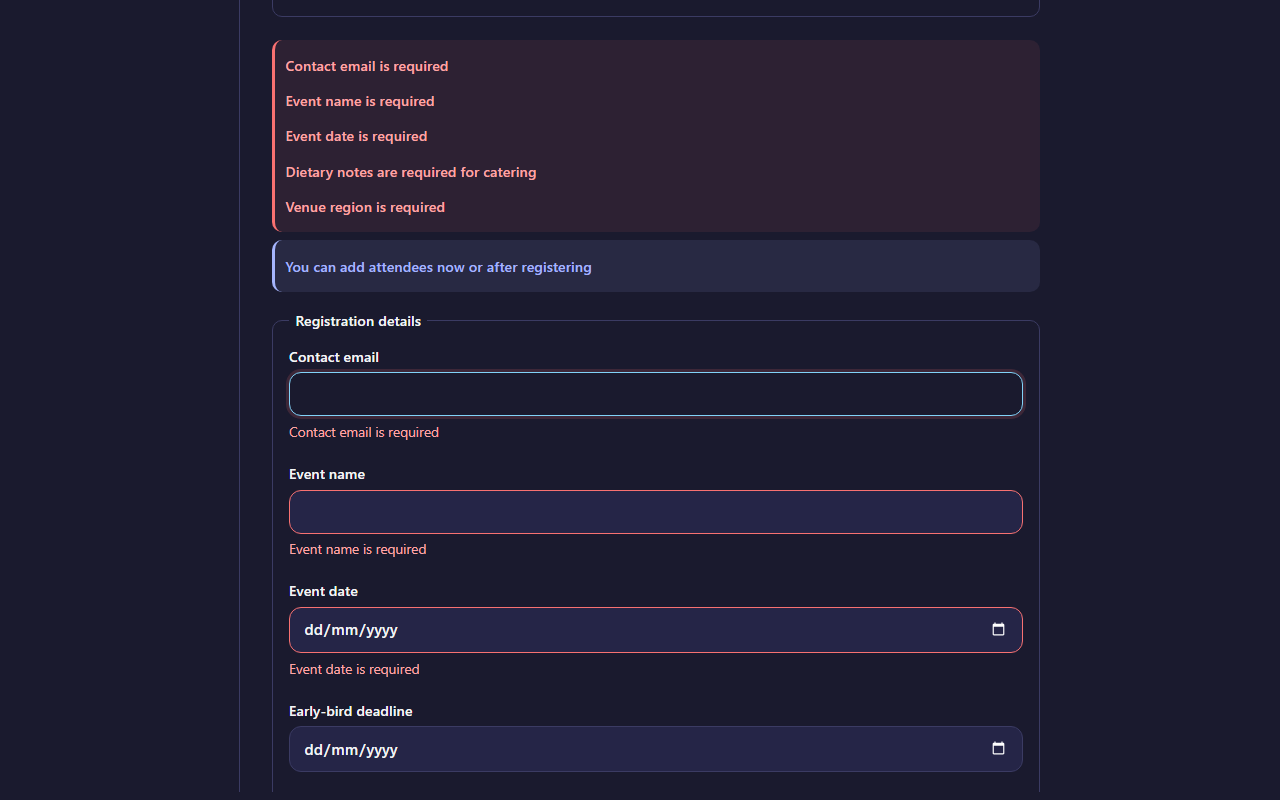
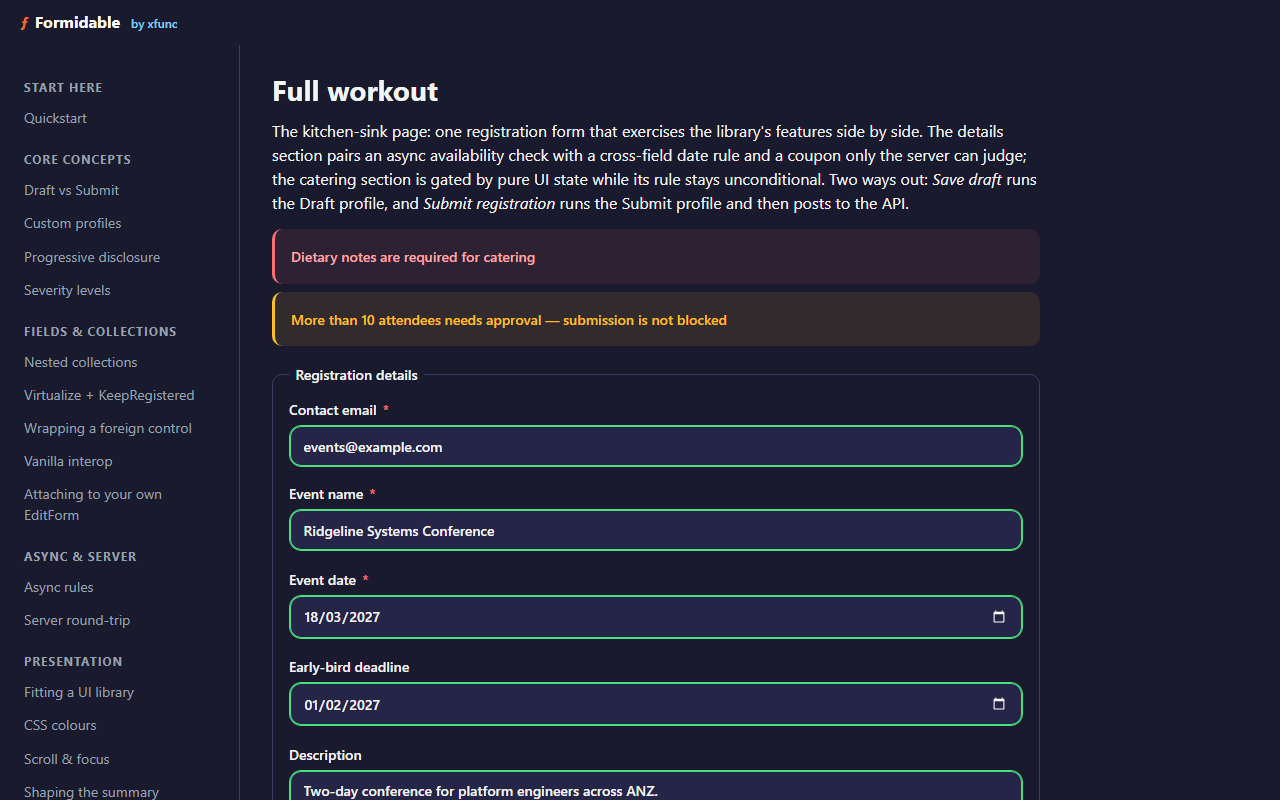
docs: show a mixed verdict in the hero captures
An all-red form sold the summary and nothing else. The hero now stages
five valid fields, a warning that blocks nothing, and one error, framed
from the top so the brand and the page header sit in the shot. The
contact address is the reserved documentation domain.

diff --git a/tests/Formidable.Sample.E2E/DocsCapture.cs b/tests/Formidable.Sample.E2E/DocsCapture.cs
@@ -43,33 +43,37 @@ public sealed class DocsCapture(SampleAppFixture app)
     // contexts on the fixture's shared browser instead of adding servers of its own.
     private const string WorkoutUrl = "http://localhost:5181/workout";
 
-    // How far below the top of the viewport the summary lands for the hero shots: enough to keep
-    // it clear of the very edge, small enough that the field messages below it fill the rest of
-    // the 800px frame — the whole point of the shot. A double, not a float: EvaluateAsync's
-    // argument serializer does not round-trip System.Single, so a float argument silently reaches
-    // the page as undefined and turns the arithmetic below into NaN.
-    private const double SummaryTopMargin = 40d;
+    // Eleven rows is the cheapest way past the Attendees collection's Warning-severity rule
+    // (EventRegistrationValidator.ConfigureDraftRules: more than 10 is a warning, never a
+    // block), and each needs a Name — the per-row presence rule sits in the submit bucket, so a
+    // blank row would add its own error and spoil the one-error state the hero wants. Real
+    // first-and-last names rather than placeholders, since this shot is what a visitor sees first.
+    private static readonly string[] HeroAttendeeNames =
+    [
+        "Maya Chen", "Liam O'Connor", "Priya Natarajan", "Oliver Bennett", "Sofia Rossi",
+        "Noah Kim", "Ava Thompson", "Ethan Walsh", "Grace Nguyen", "Lucas Ferreira", "Isla Campbell",
+    ];
 
     [DocsCaptureFact]
-    public async Task Hero_light_captures_the_empty_first_submit()
+    public async Task Hero_light_captures_a_mixed_valid_and_warning_state()
     {
         var path = Path.Combine(AssetsDirectory(), "hero-light.png");
         var page = await OpenWorkoutAsync(ColorScheme.Light);
 
-        await SubmitEmptyRegistrationAsync(page);
-        await ScrollSummaryNearTopAsync(page);
+        await StageMixedValidationAsync(page);
+        await FrameForHeroAsync(page);
 
         await page.ScreenshotAsync(new PageScreenshotOptions { Path = path });
     }
 
     [DocsCaptureFact]
-    public async Task Hero_dark_captures_the_empty_first_submit()
+    public async Task Hero_dark_captures_a_mixed_valid_and_warning_state()
     {
         var path = Path.Combine(AssetsDirectory(), "hero-dark.png");
         var page = await OpenWorkoutAsync(ColorScheme.Dark);
 
-        await SubmitEmptyRegistrationAsync(page);
-        await ScrollSummaryNearTopAsync(page);
+        await StageMixedValidationAsync(page);
+        await FrameForHeroAsync(page);
 
         await page.ScreenshotAsync(new PageScreenshotOptions { Path = path });
     }
@@ -122,20 +126,55 @@ public sealed class DocsCapture(SampleAppFixture app)
         await Expect(Summary(page)).ToBeVisibleAsync(new() { Timeout = AsyncTimeoutMs });
     }
 
-    // Scrolls the summary to just below the top of the viewport so the hero shots frame the
-    // form's error states rather than the page chrome above them. The margin is a double, not a
-    // float: EvaluateAsync's argument serializer does not round-trip System.Single — a float
-    // argument silently reaches the page as undefined, so "rect.top - margin" becomes NaN and
-    // window.scrollBy(0, NaN) is a no-op the caller never learns about.
-    private static Task ScrollSummaryNearTopAsync(IPage page) =>
-        page.EvaluateAsync(
-            """
-            margin => {
-                const rect = document.querySelector('.formidable-summary').getBoundingClientRect();
-                window.scrollBy(0, rect.top - margin);
-            }
-            """,
-            SummaryTopMargin);
+    // Stages the workout page the hero shots want: a realistic conference registration with
+    // every required field answered but one, an eleven-attendee list past the Warning-severity
+    // threshold, and Dietary notes left blank — its rule is unconditional (ConfigureDraftRules),
+    // so it is the cheapest single field that keeps one error and the summary's error band alive
+    // once everything else clears. Kept separate from SubmitEmptyRegistrationAsync, which
+    // Social_preview still uses unchanged for its own all-red empty-submit crop: the two shots
+    // want different states, so they get different staging rather than one helper branching on
+    // its caller.
+    private static async Task StageMixedValidationAsync(IPage page)
+    {
+        await Field(page, "contactemail").FillAsync("events@example.com");
+        await Field(page, "eventname").FillAsync("Ridgeline Systems Conference");
+        await Field(page, "eventdate").FillAsync("2027-03-18");
+        await Field(page, "earlybirddeadline").FillAsync("2027-02-01");
+        await Field(page, "description").FillAsync("Two-day conference for platform engineers across ANZ.");
+        await Field(page, "couponcode").FillAsync("EARLYBIRD");
+        await Field(page, "cateringheadcount").FillAsync("120");
+        await Field(page, "venueregion").FillAsync("Adelaide, South Australia");
+        await TabAsync(page);
+
+        var addAttendee = page.GetByRole(AriaRole.Button, new() { Name = "Add attendee", Exact = true });
+        for (var i = 0; i < HeroAttendeeNames.Length; i++)
+        {
+            await addAttendee.ClickAsync();
+            var row = page.Locator(".member-list li").Nth(i);
+            await Field(row, "name").FillAsync(HeroAttendeeNames[i]);
+        }
+
+        await page.GetByRole(AriaRole.Button, new() { Name = "Submit registration", Exact = true }).ClickAsync();
+
+        // Both waits double as the staging's own proof: the one field left blank is what the
+        // error band names, and the eleven-row list is what the warning band names. Waiting on
+        // them (rather than a fixed delay) also absorbs the contact email's 300ms availability
+        // check and the debounced live passes every fill above started.
+        await Expect(SummaryEntry(page, "Dietary notes are required for catering"))
+            .ToBeVisibleAsync(new() { Timeout = AsyncTimeoutMs });
+        await Expect(SummaryEntry(page, "More than 10 attendees needs approval — submission is not blocked"))
+            .ToBeVisibleAsync(new() { Timeout = AsyncTimeoutMs });
+    }
+
+    // Frames the hero shots on the nav's brand block and the page header rather than on the page
+    // chrome the teaching panel would otherwise push below the fold: same technique
+    // Social_preview uses (hide .teaching, scroll to the top), applied here through its own copy
+    // so the two capture shapes stay free to diverge without either editing the other's helper.
+    private static async Task FrameForHeroAsync(IPage page)
+    {
+        await page.AddStyleTagAsync(new PageAddStyleTagOptions { Content = ".teaching { display: none !important; }" });
+        await page.EvaluateAsync("() => window.scrollTo(0, 0)");
+    }
 
     private static string AssetsDirectory()
     {
